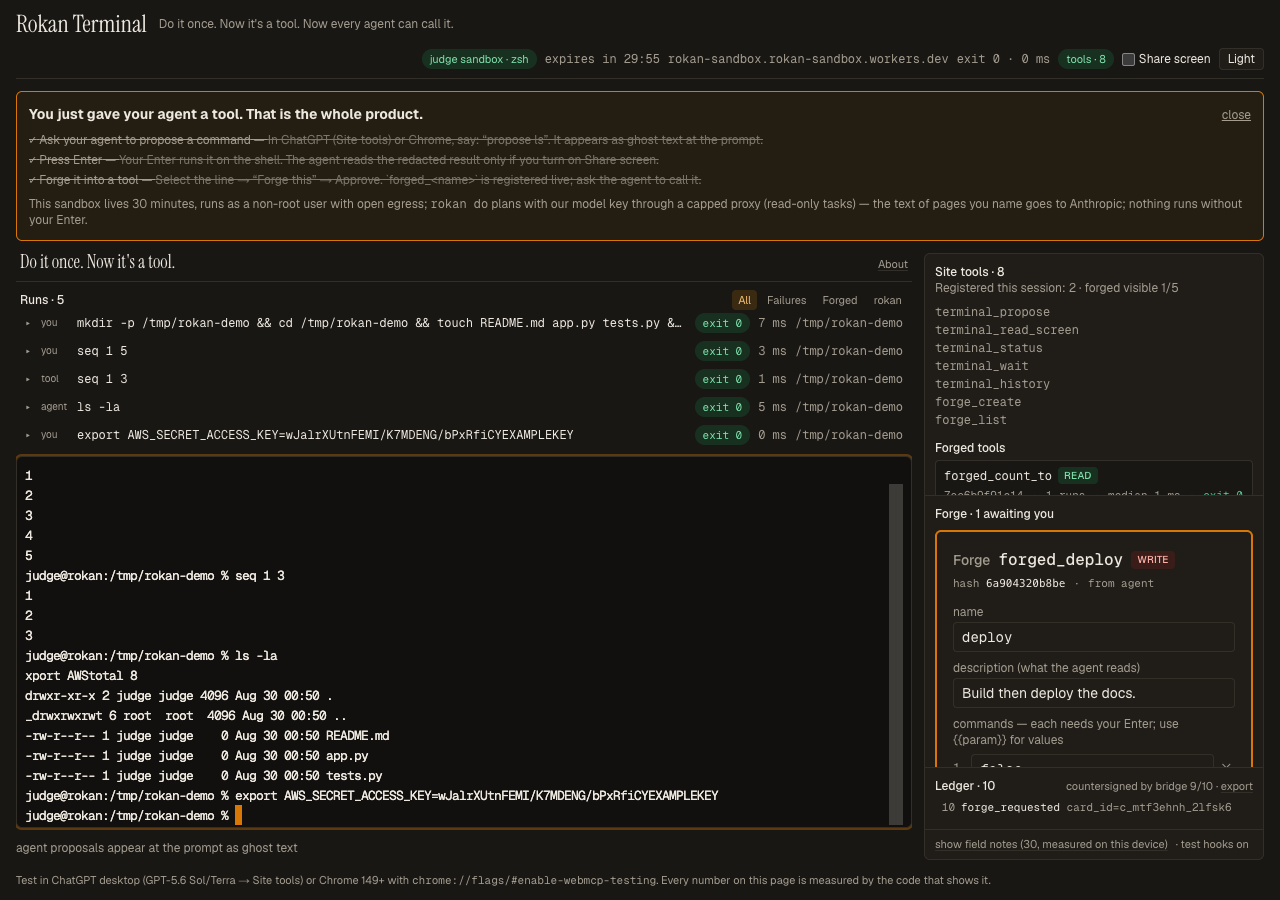
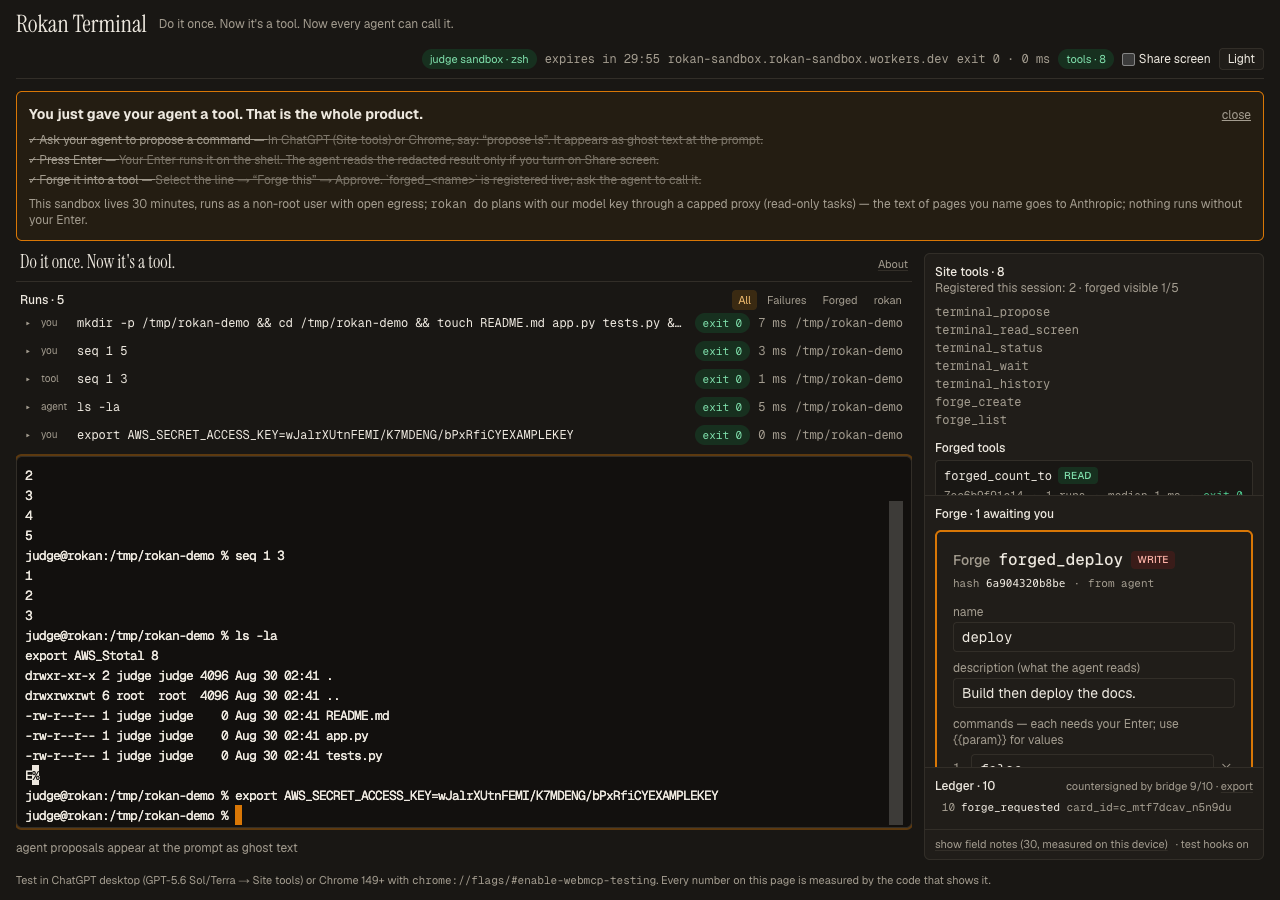
docs(evidence): judge suite 15/15 on the open-net fleet; demo shots from that run
Claude-Session: https://claude.ai/code/session_01RJtGvkhmwd2qdLot5U3zBz

diff --git a/docs/HANDOFF-RESUME.md b/docs/HANDOFF-RESUME.md
@@ -3,15 +3,15 @@
 **Read this + `docs/PROGRESS.md` (top block) + `~/.claude/plans/optimized-mapping-tarjan.md` (the bible) first.**
 Everything below is pushed to `main` (entry repo `github.com/Aarya2004/webmcp-private`) unless noted.
 
-## RESUME POINT (2026-08-29 ~22:30 local) — OPEN-NET JUDGE SANDBOX PROVEN; one clean suite line left
+## RESUME POINT (2026-08-29 ~22:45 local) — OPEN-NET JUDGE SANDBOX GREEN (suite 15/15)
 Plan of record: `~/.claude/plans/bright-squishing-corbato.md` (approved; executed). Code on `main` (see PROGRESS
 top blocks); Rokan `feat/tier0-native` `10ffc26` (unpushed — Arav's call).
 **Proven live, real Chrome, stranger path:** unseeded page → `rokan do` **planned · 9 019 ms** → same question
 **⚡ compiled · 783 ms · 0 calls** (`docs/evidence/stranger/2026-08-29-prod-open-net-cold-then-replay.jpg`); proxy
 caps trip live; read-only refusal in 232 ms; sleepAfter fix; Sonnet 5 thinking pinned off (proxy + planner).
-**Judge suite:** 14/15 with `open-net` passing in-suite; `readonly` fixed after (abstain exits 0); the last full run
-was refused at `/api/session` by MY IP's 5-concurrent cap (each eval/probe is a session) — re-run when a slot frees:
-`node evals/run-all.mjs --judge=https://rokan-sandbox.rokan-sandbox.workers.dev --trace=/tmp/t` → expect **15/15**.
+**Judge suite: 15/15, 0 retries, 96 s** (`docs/evidence/sandbox/2026-08-29-judge-suite-15-of-15.txt`). Re-run before
+freeze: `node evals/run-all.mjs --judge=https://rokan-sandbox.rokan-sandbox.workers.dev --trace=/tmp/t` (each run is a
+session against your IP's 5-concurrent cap — space runs ≥ 6 min apart).
 **Known Rokan gap (filed, FIELD-NOTES J19):** cold planning is brittle on some layouts (pypi package pages,
 Statuspage-style status pages); Wikipedia/docs pages verify first try. Not a sandbox issue.
 **Needs Arav:** push the Rokan branch; a dedicated Anthropic key with a console spend limit (the personal key is in

diff --git a/docs/PROGRESS.md b/docs/PROGRESS.md
@@ -1,6 +1,6 @@
 # PROGRESS — verified state (update before you stop; Aarya's Claude reads this, not chat)
 
-Last update: **2026-08-29 ~21:00 local (Engineer #4, Fable 5 — heads engineering; owns the whole tree)** Branch `main`, all pushed.
+Last update: **2026-08-29 ~22:45 local (Engineer #4, Fable 5 — heads engineering; owns the whole tree)** Branch `main`, all pushed.
 
 ## Build log — Engineer #4 (2026-08-29 ~20:25 local, open-net sandbox LIVE — proofs so far)
 Deployed: image `sha256:506cb8e0…` on **`standard-1`**, fleet `ready`; Worker versions `ae7003af` → sid-first fix
@@ -54,6 +54,9 @@ abstains without the key — **not yet a policy proof**; it is one once the key 
   page → answer → same question → ⚡ 0 calls, with count-based waits so the shared judge shell can't fool the
   assertions). `readonly` is the abstain card + no ⚡ (rokan-do abstains with exit 0 by design). The clean 15/15 line
   needs one more run once my own IP's 5-session cap frees (every eval/probe I run is a session).
+- **JUDGE SUITE 15/15, 0 retries, 96 s** (22:42 local, `docs/evidence/sandbox/2026-08-29-judge-suite-15-of-15.txt`) on the
+  open-net fleet: every case including `open-net` (cold plan on an unseeded page → ⚡ 0-call replay) and `readonly`
+  (write-shaped task refused). Demo shots regenerated by this run. **The open-net judge sandbox is green.**
 
 ## Build log — Engineer #4 (2026-08-29 evening, OPEN-NET JUDGE SANDBOX — plan `bright-squishing-corbato`)
 **Goal (Arav): a judge can `rokan do "<anything>"` on any site on the open web inside the sandbox — a product, not a
